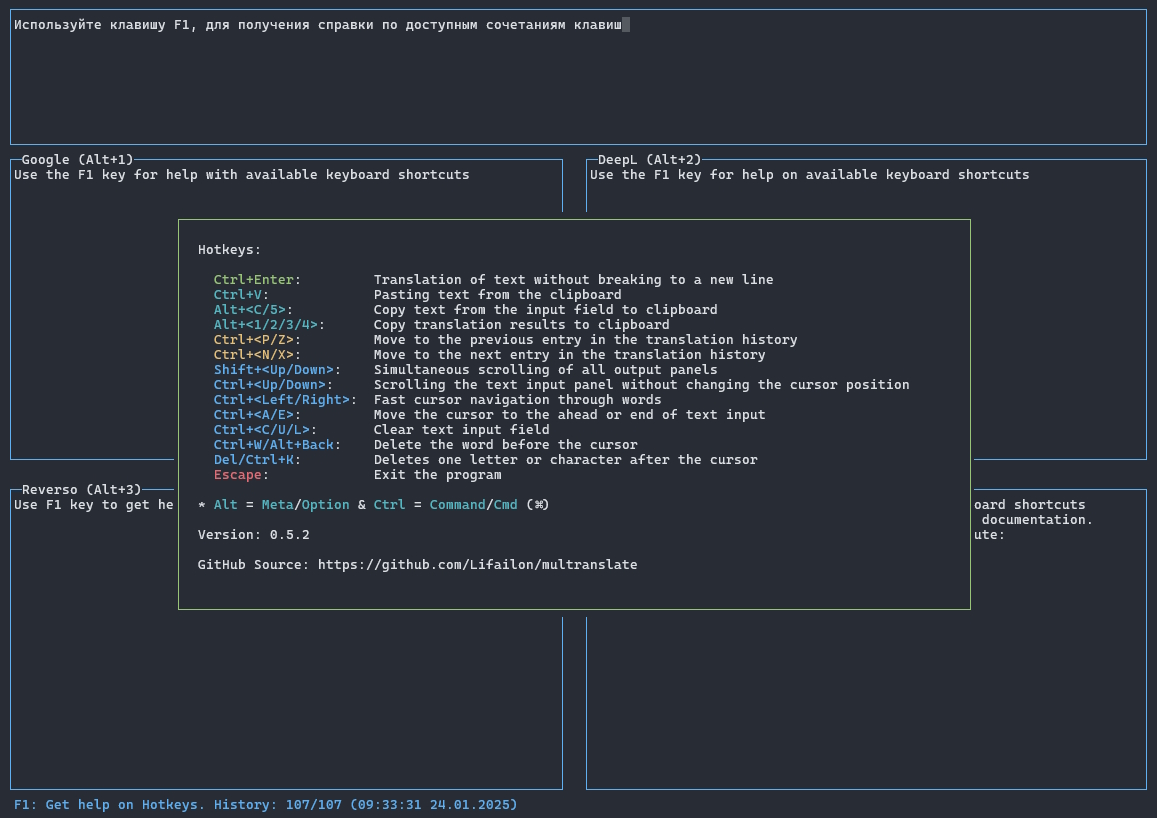
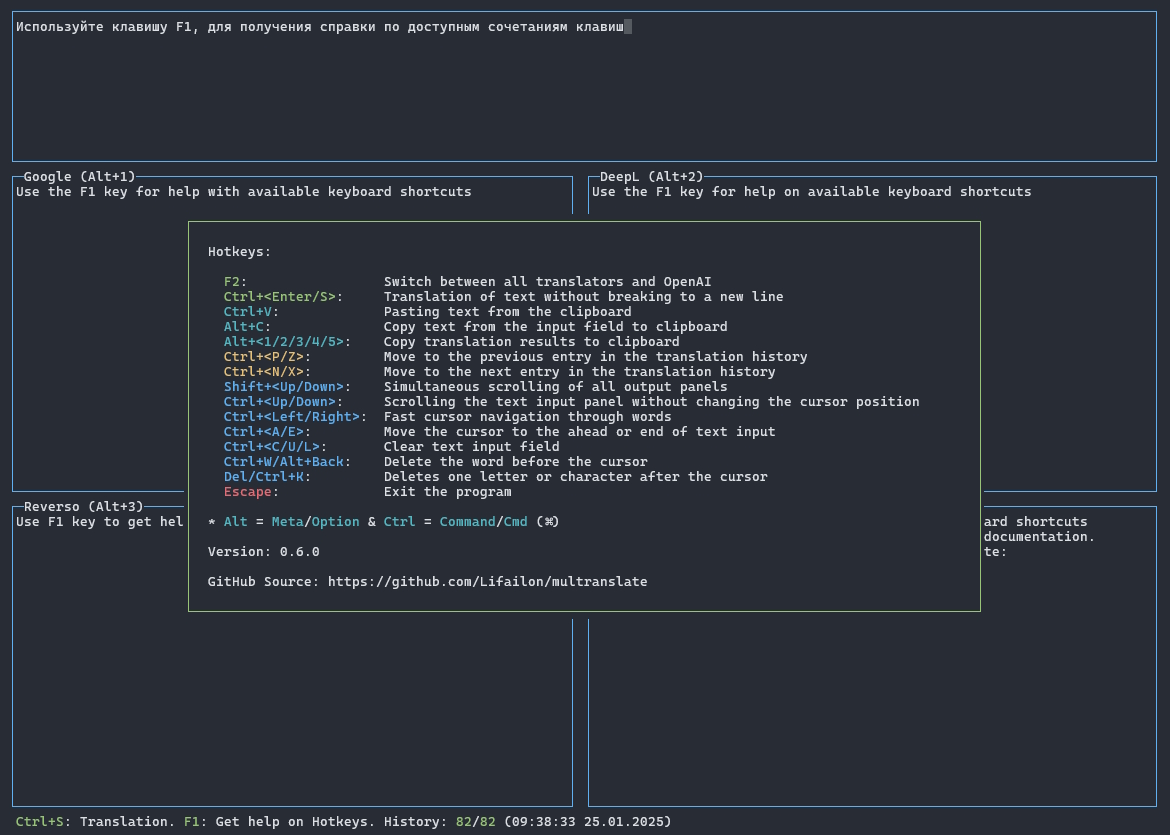
update examples for release 0.6.0

diff --git a/README.md b/README.md
@@ -75,7 +75,7 @@ npm start
 
 ## Supported languages
 
-You can change the language to automatically detect the language between English and any of those in the table below:
+You can change the language for automatic definition between English and any of those presented in the table below:
 
 | Parameter | Language          |
 | -         | -                 |
@@ -114,7 +114,7 @@ You can also use any of the translators individually by specifying the appropria
         </td>
     </tr>
     <tr>
-        <td><img src=/image/google-fr.jpg width=600/></td>
+        <td><img src=/image/google-tr.jpg width=600/></td>
         <td><img src=/image/deepl-de.jpg width=600/></td>
     </tr>
     <tr>
@@ -128,14 +128,6 @@ You can also use any of the translators individually by specifying the appropria
         <td><img src=/image/mymemory-es.jpg width=600/></td>
     </tr>
 </table>
-
-## Contributing
-
-If your language is not listed or you have problems with translation, please open an issue in the [Issues](https://github.com/Lifailon/multranslate/issues).
-
-You can also offer another source for translating the text through `API`, which does not require an access key.
-
-If you like to use this interface, you can make a contribution, just translate this readme file to your own language and pass it through [Pull Request](https://github.com/Lifailon/multranslate/pulls).
 
 ## Hotkeys
 
@@ -159,6 +151,21 @@ Use the `F1` key to get help on available keyboard shortcuts:
 
 ![interface](/image/hotkeys.jpg)
 
+## Contributing
+
+If your language is not listed or you have problems with translation, please open an issue in the [Issues](https://github.com/Lifailon/multranslate/issues).
+
+You can also offer another source for translating the text through `API`, which does not require an access key.
+
+If you like to use this interface, you can make a contribution, just translate this readme file to your own language and pass it through [Pull Request](https://github.com/Lifailon/multranslate/pulls).
+
+## Backlog
+
+- Rewrite code to TypeScript.
+- Implement native cursor support (developments in [multranslate-native-cursor](multranslate-native-cursor.js)).
+- Check texts for style and grammar (spelling) via [LanguageTool](https://languagetool.org/http-api).
+
+
 ## Text buffer
 
 The Blessed library is great and has no analogues in its functionality for `JavaScript` or `TypeScript` (and even surpasses some libraries in other languages), but it is outdated (not supported since 2015) and has a number of technical limitations, for example, there is no ability to navigate the cursor in the text input field. For this reason, a mechanism for managing the input content through a text buffer was implemented, which allows you to use a custom cursor for navigation using keyboard arrows and automatic scrolling.
@@ -166,9 +173,3 @@ The Blessed library is great and has no analogues in its functionality for `Java
 If you plan to use this library for similar tasks where text input is required, then add `class TextBuffer` and control of hotkeys (`keypress`) via `inputBox.on()` to your code. It took me several weeks to achieve full functionality for working with text, the key problem is the built-in line break (`autowrap`) and the shift of the custom cursor.
 
 Over the course of daily use for 6 months, I can confirm that it works stably.
-
-## Backlog
-
-- Rewrite code to TypeScript.
-- Implement native cursor support (developments in [multranslate-native-cursor](multranslate-native-cursor.js)).
-- Check texts for style and grammar (spelling) via [LanguageTool](https://languagetool.org/http-api).
